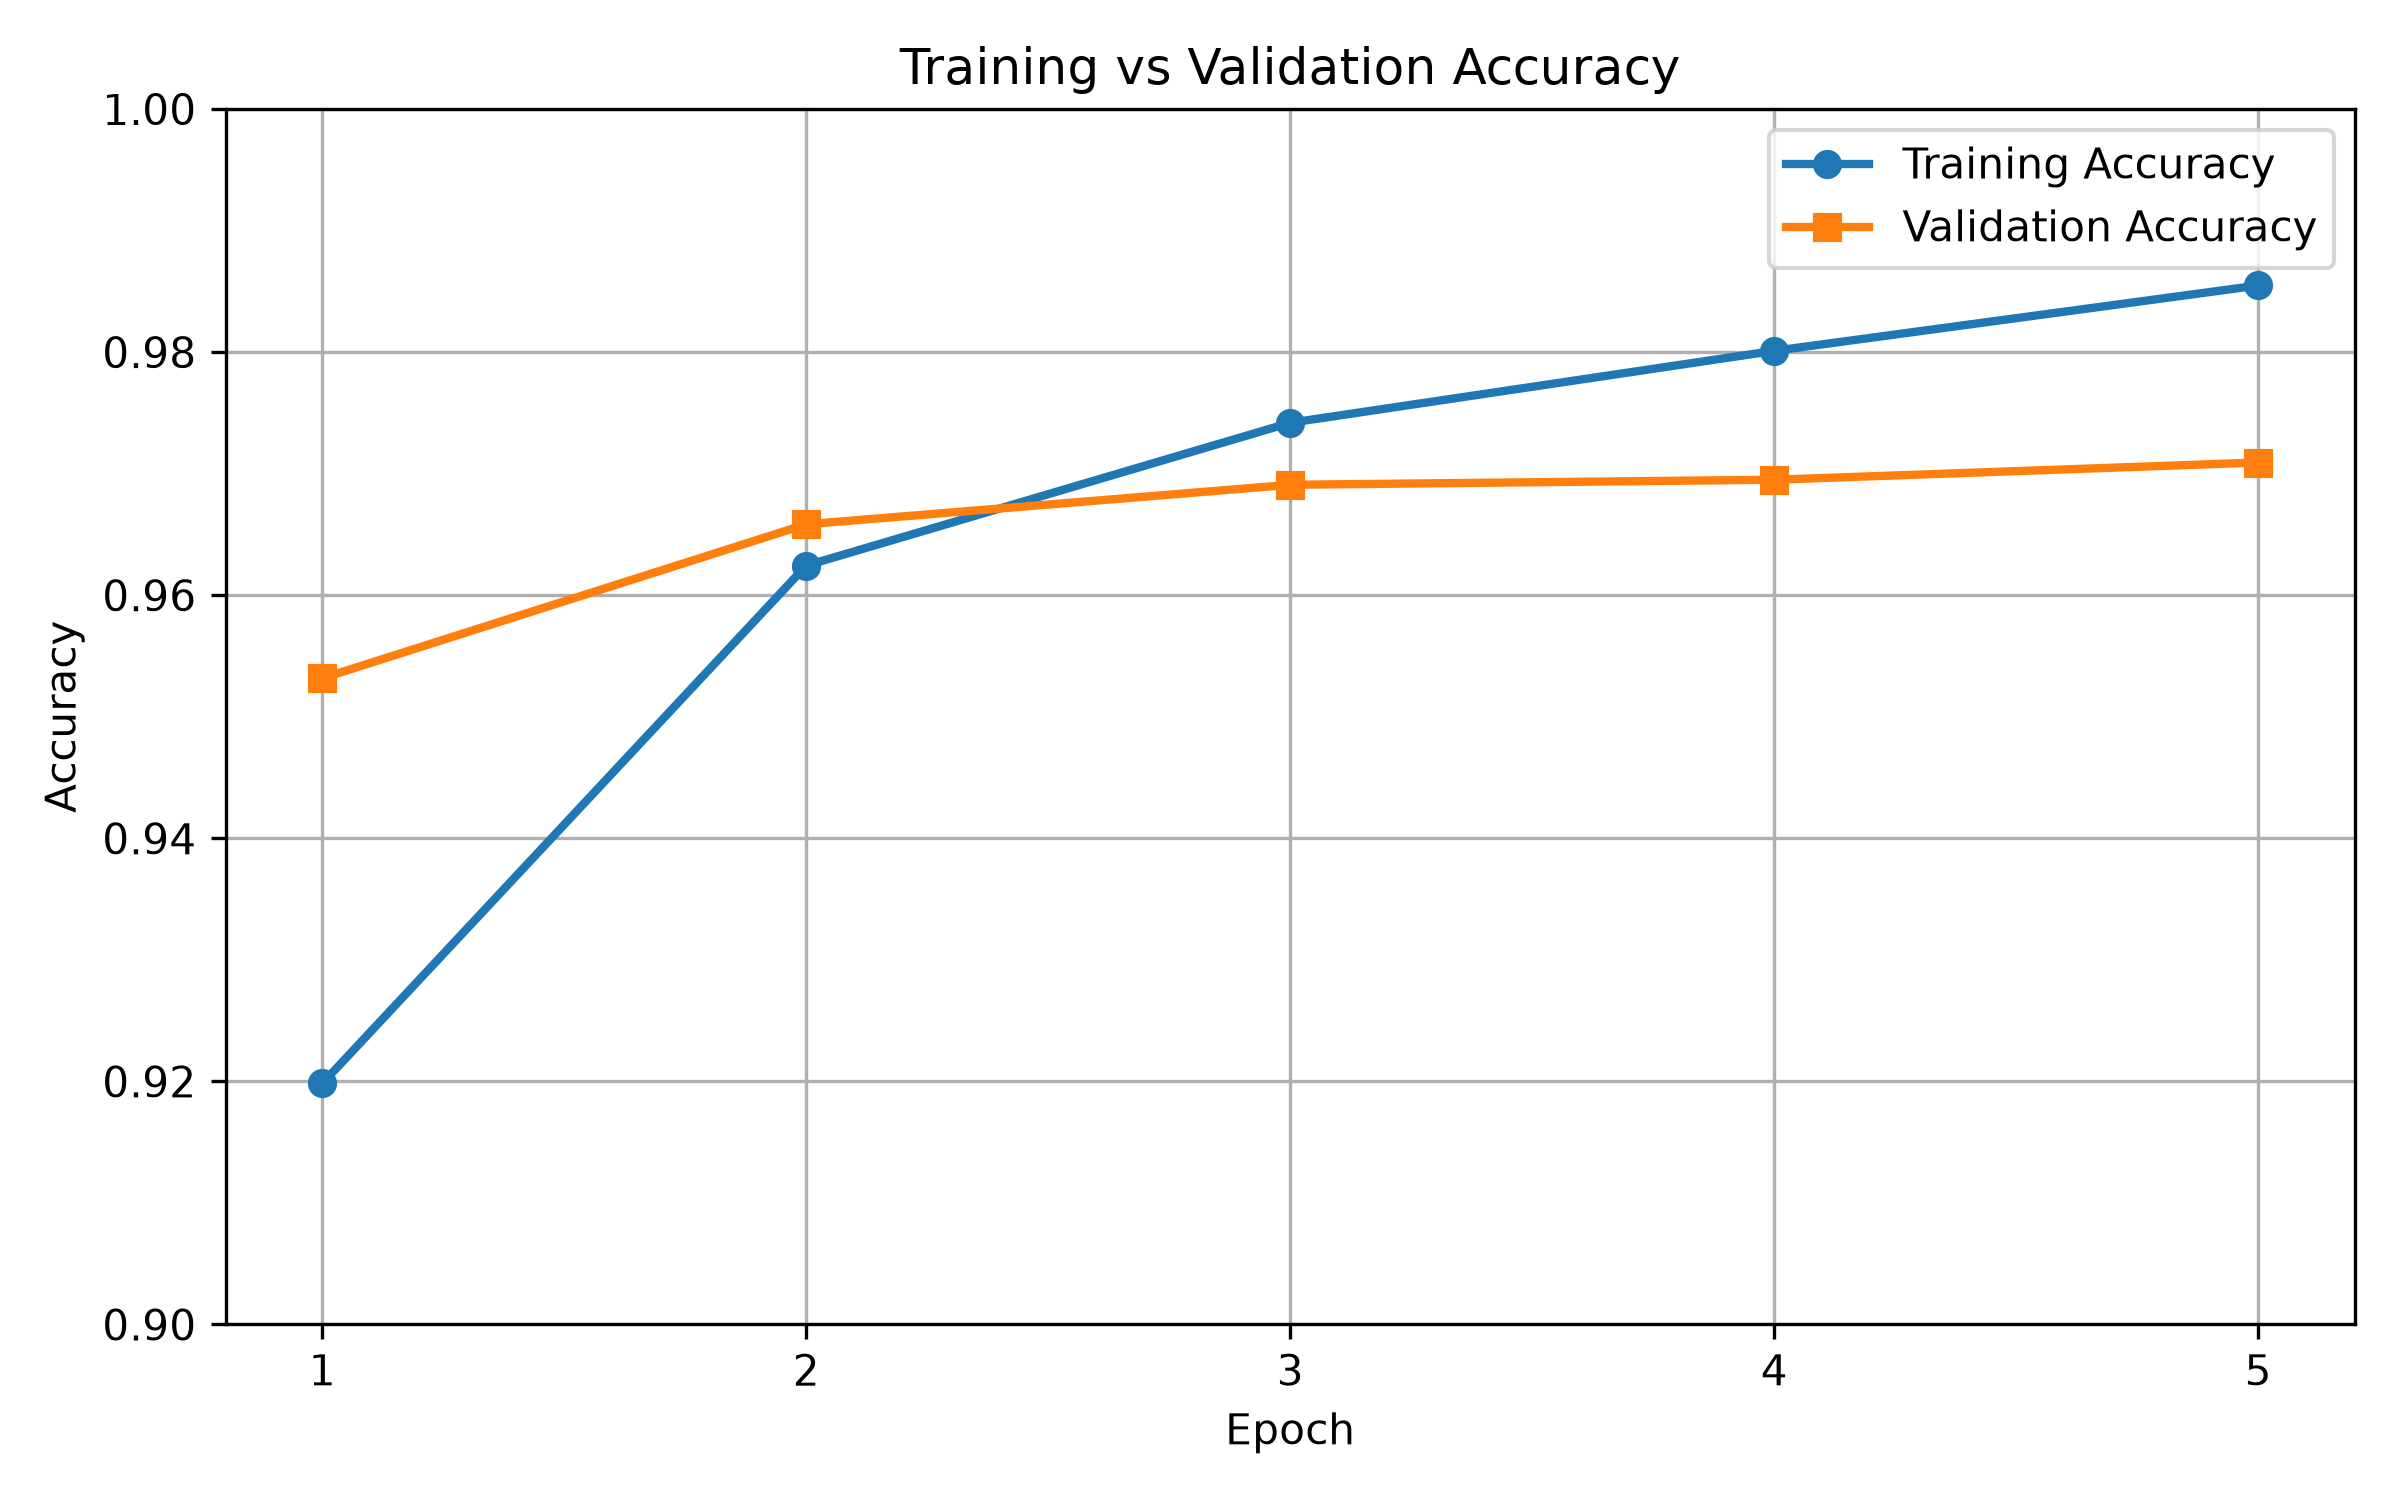
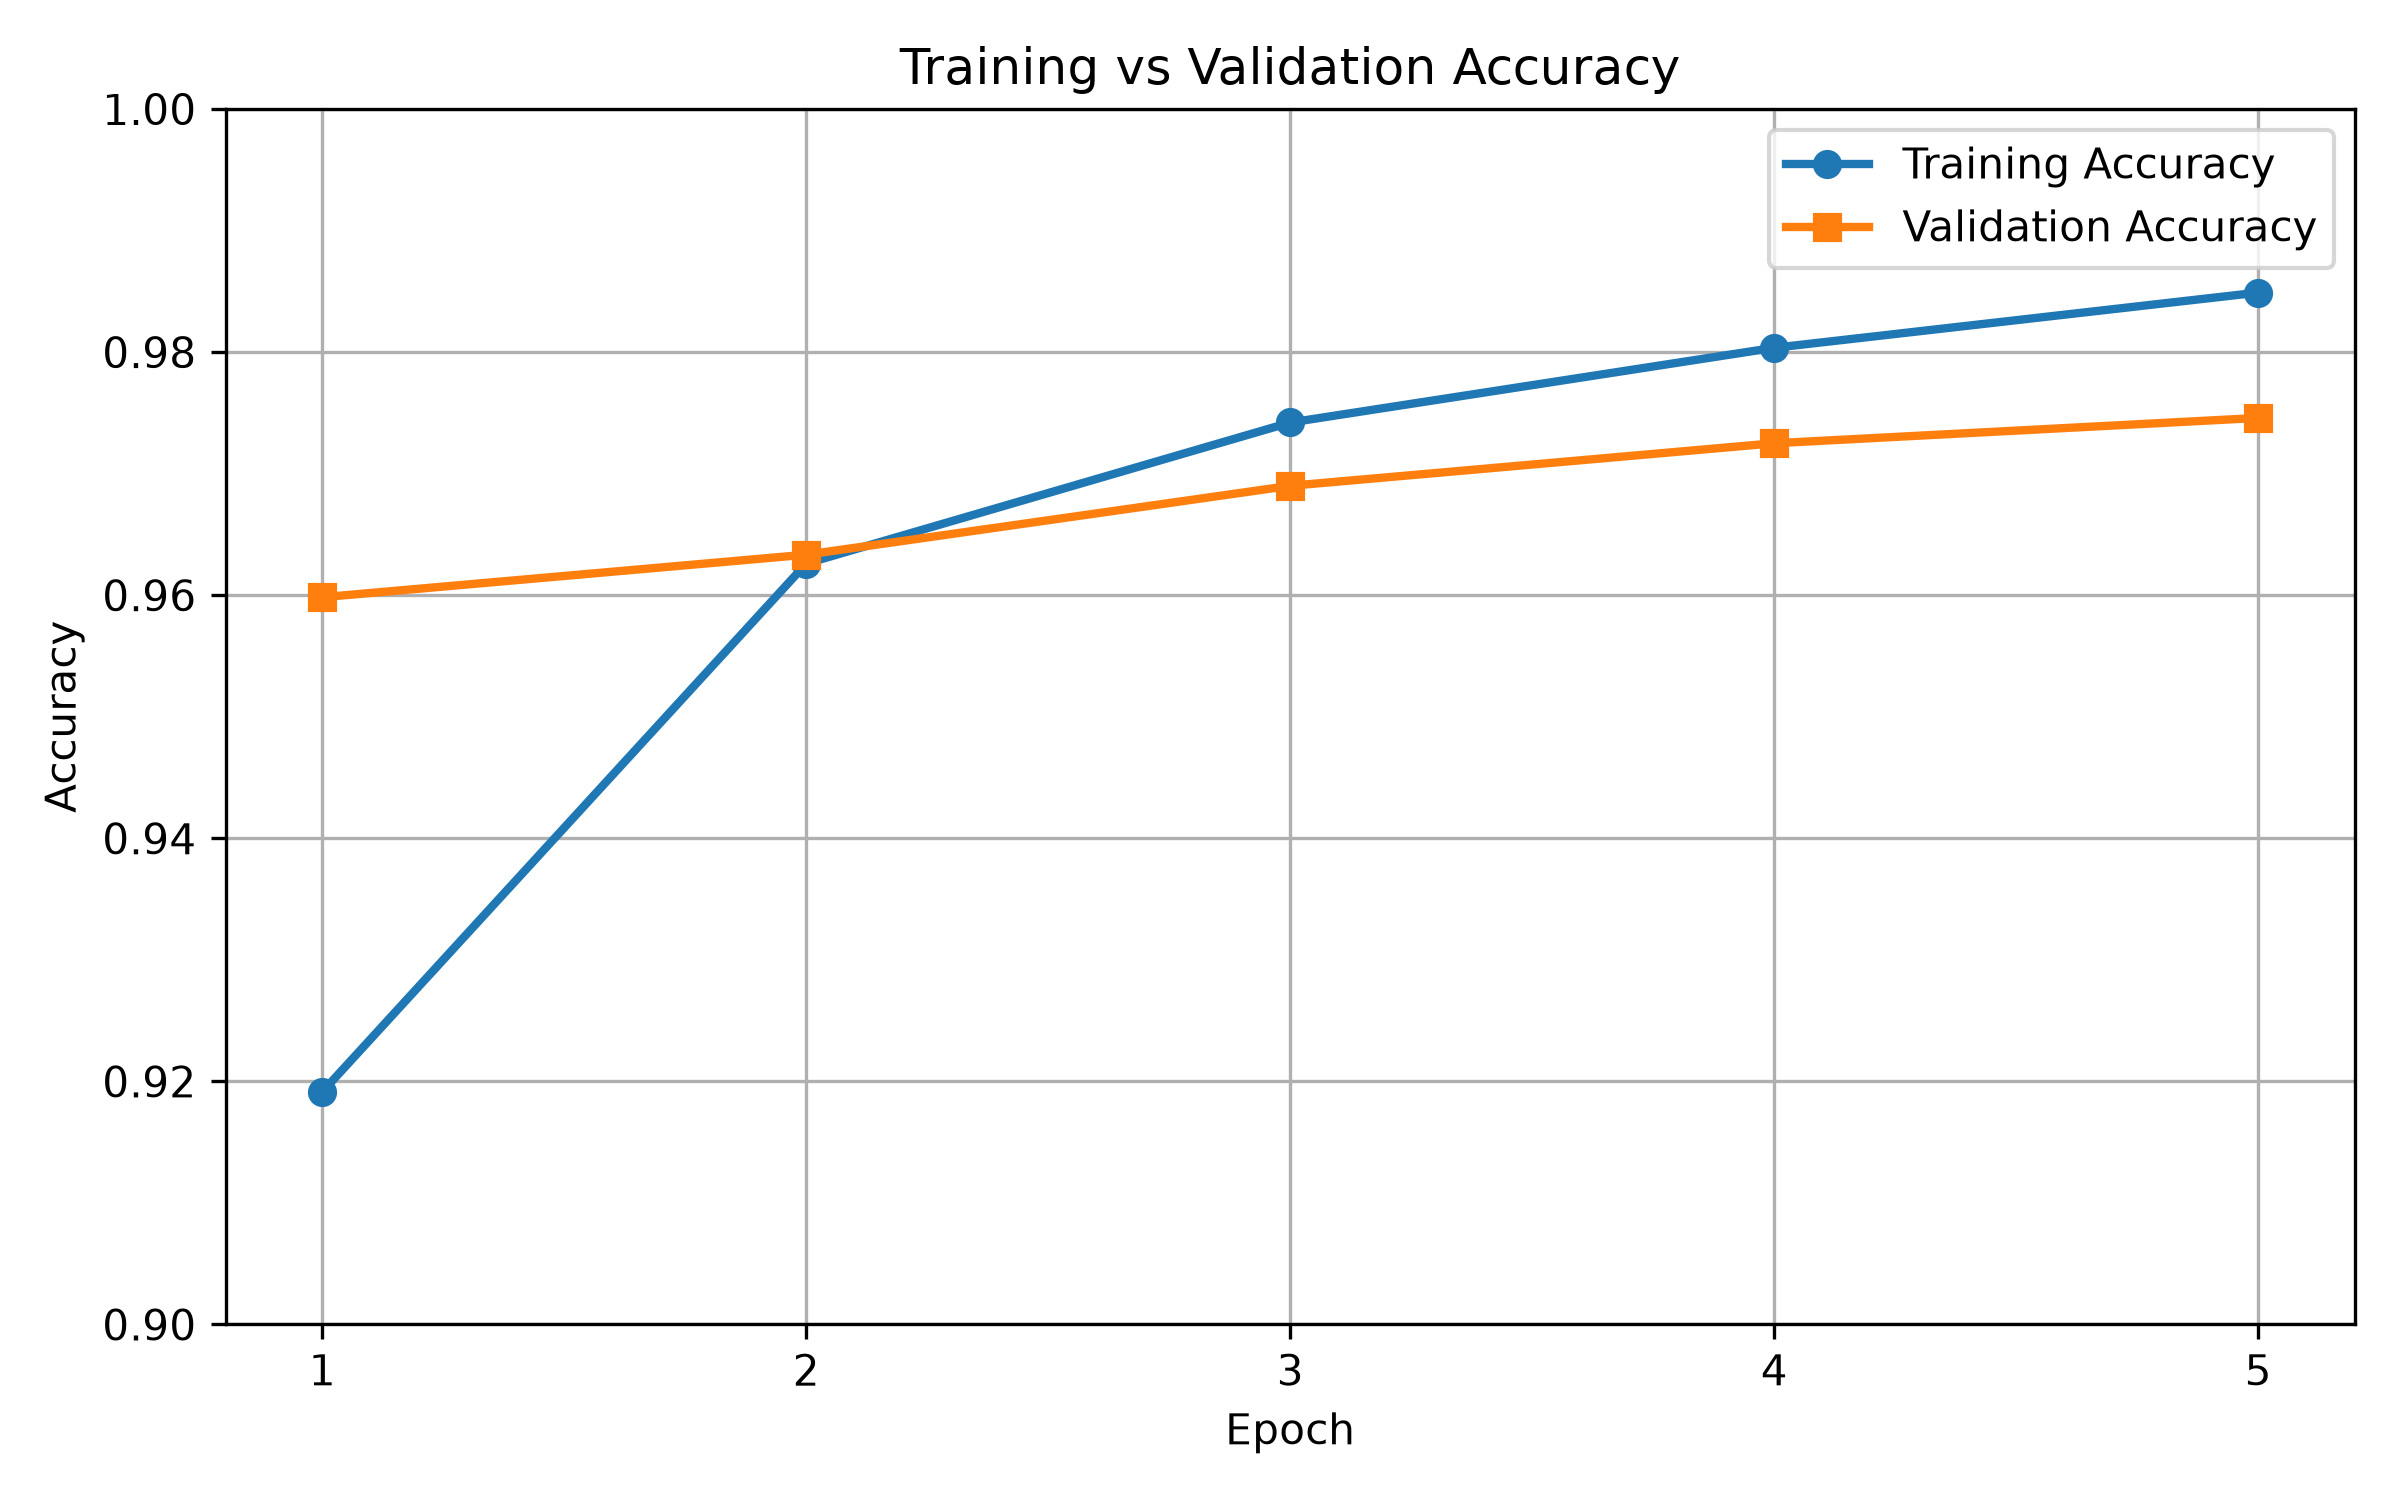
Visualize training loss

diff --git a/train.py b/train.py
@@ -113,3 +113,46 @@ plt.savefig("images/training_accuracy.png", dpi=300)
 
 plt.show()
 plt.close()
+
+
+
+# Visualize Training Loss
+
+
+plt.figure(figsize=(8, 5))
+
+plt.plot(
+    epochs,
+    history.history["loss"],
+    marker="o",
+    linewidth=2,
+    label="Training Loss"
+)
+
+plt.plot(
+    epochs,
+    history.history["val_loss"],
+    marker="s",
+    linewidth=2,
+    label="Validation Loss"
+)
+
+plt.title("Training vs Validation Loss")
+plt.xlabel("Epoch")
+plt.ylabel("Loss")
+
+plt.xticks(epochs)
+
+plt.grid(True)
+plt.legend(loc="best")
+
+plt.tight_layout()
+
+plt.savefig(
+    "images/training_loss.png",
+    dpi=300,
+    bbox_inches="tight"
+)
+
+plt.show()
+plt.close()